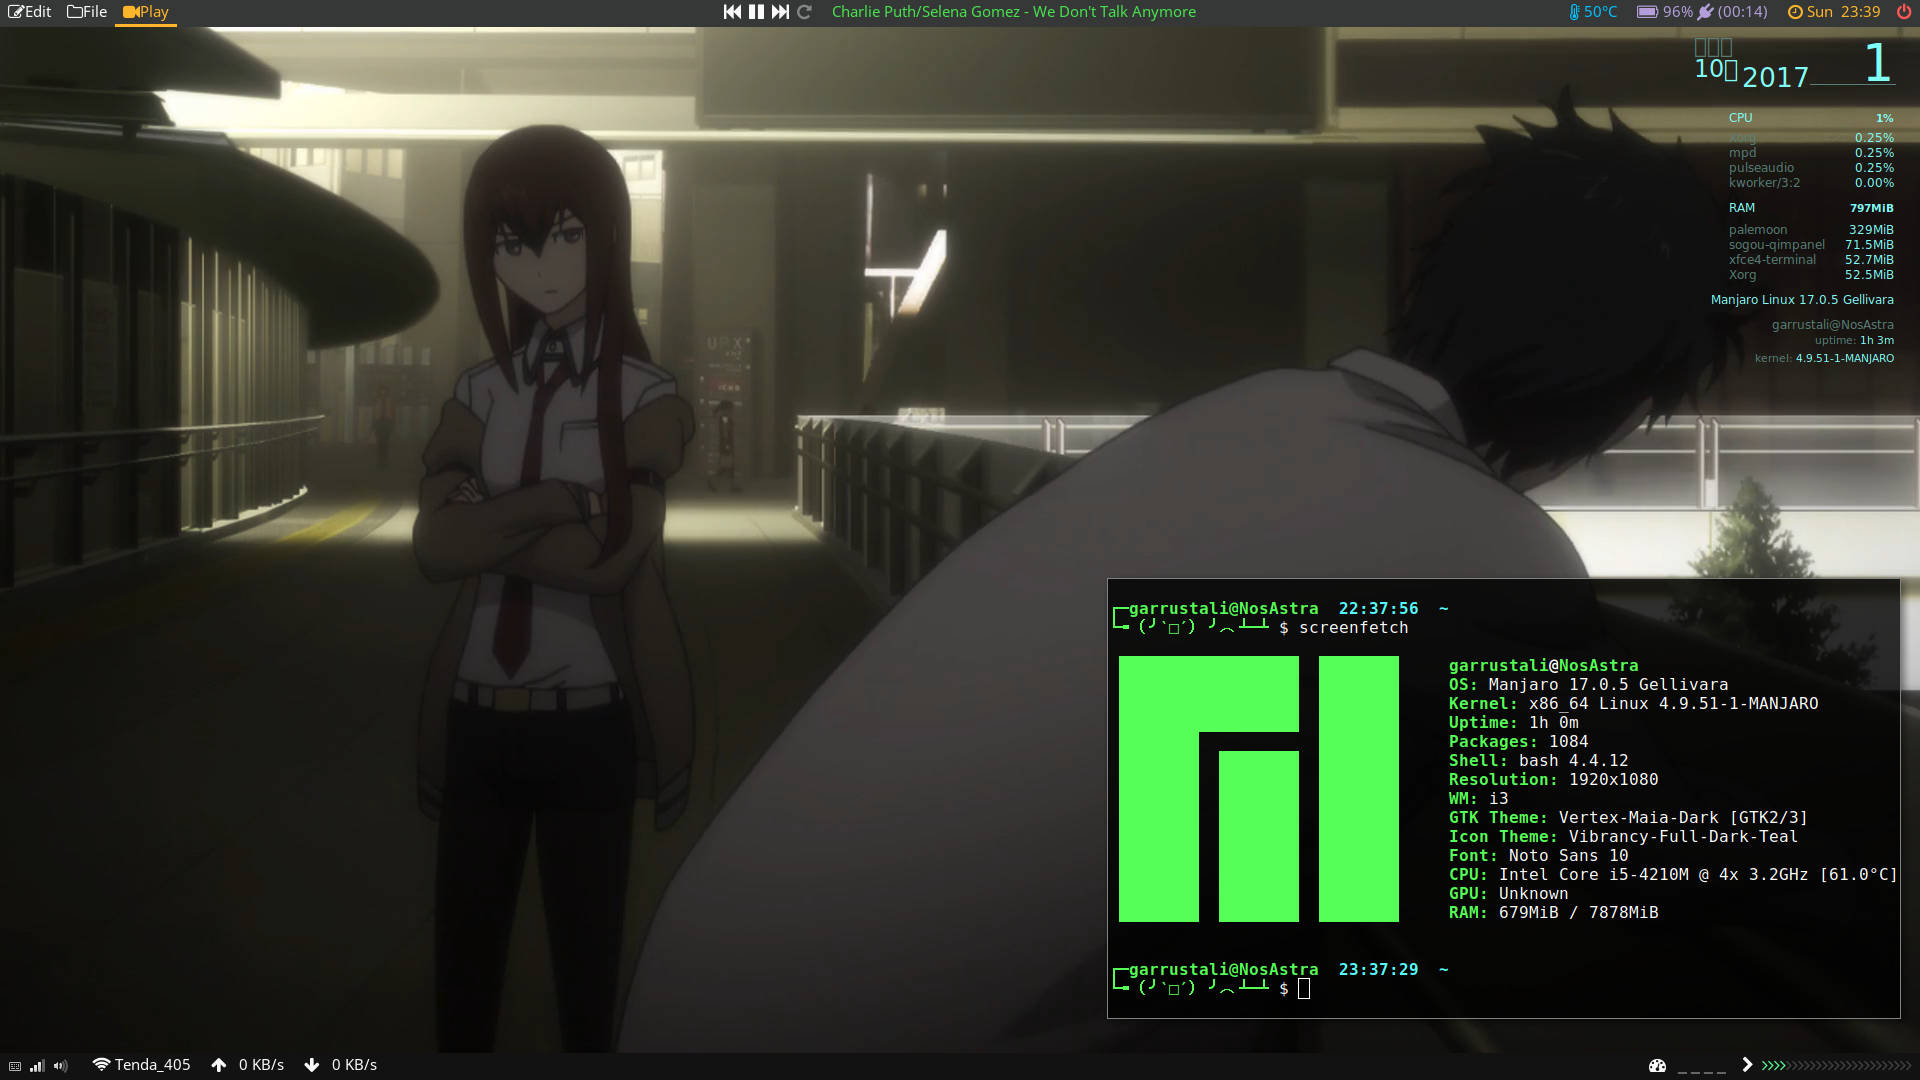
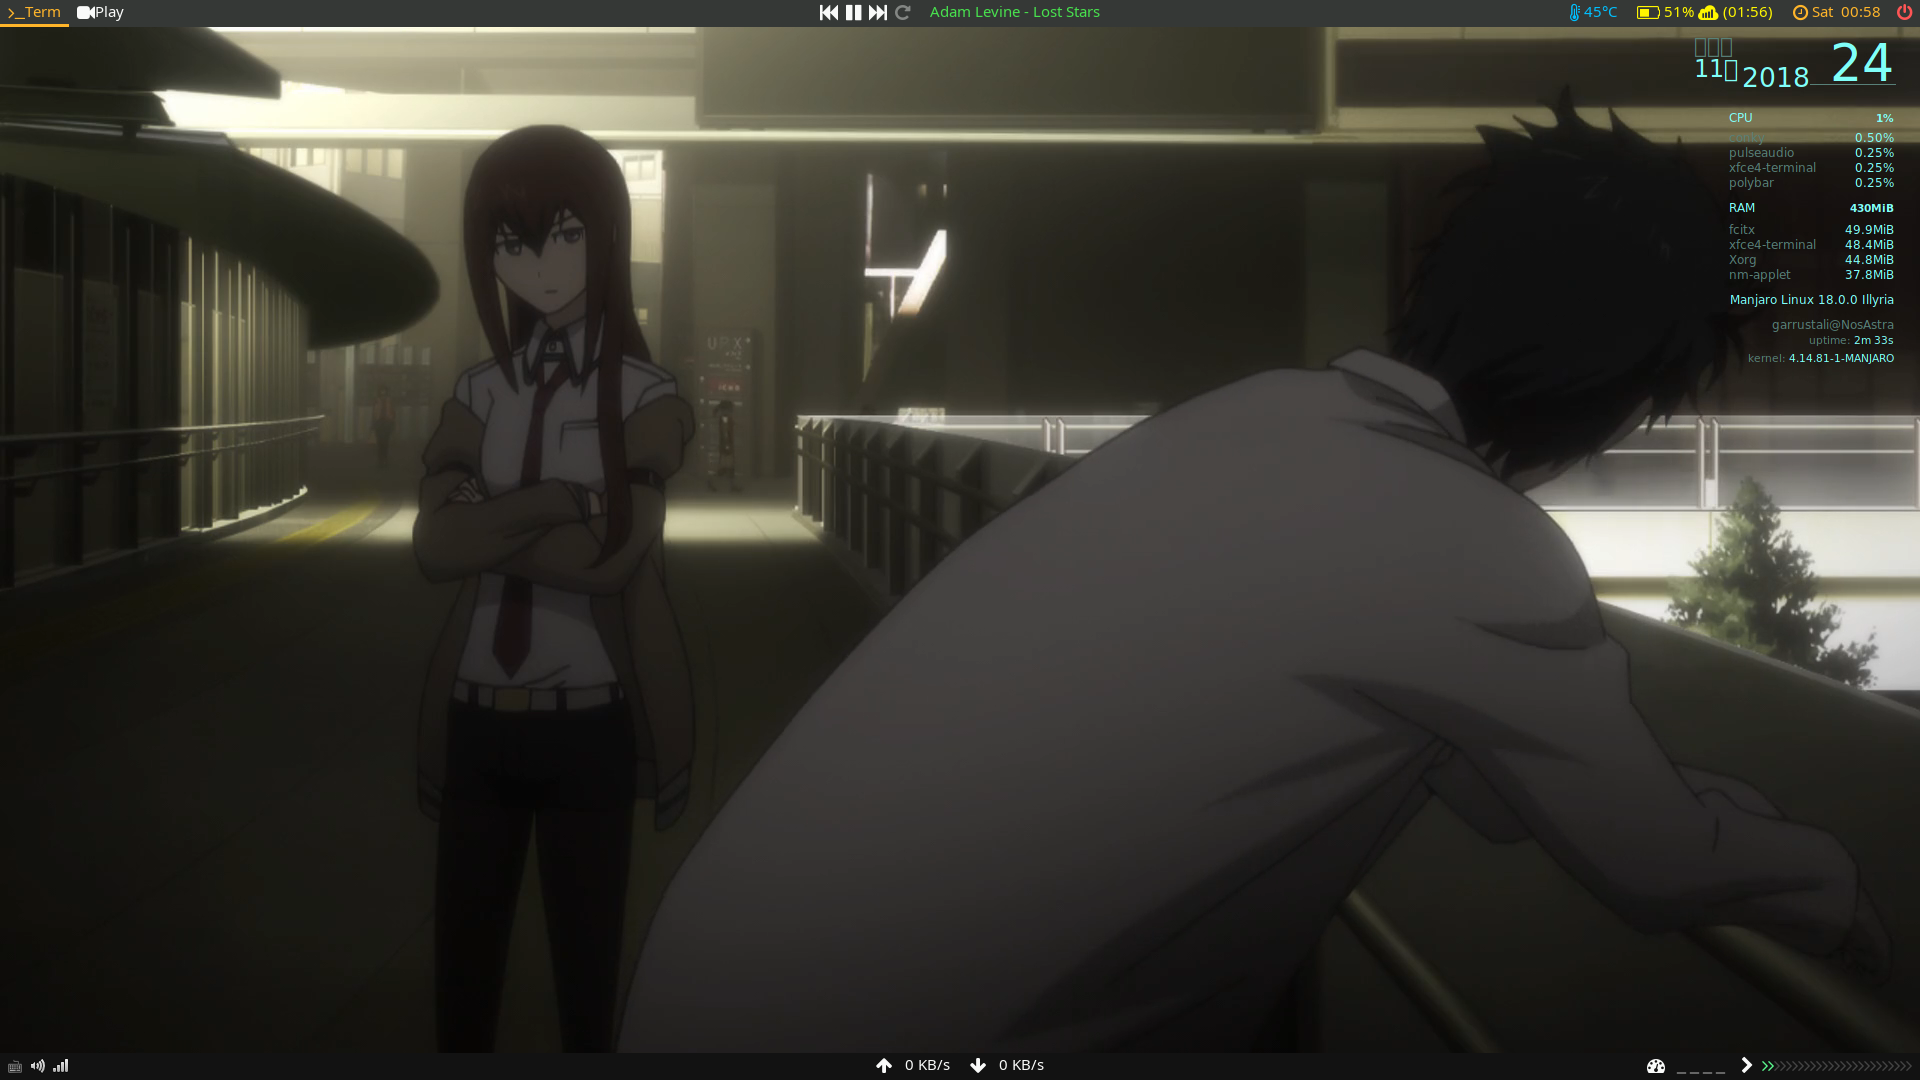
i3config change in pulseaudio&mpd / polybar refinement / readme update

diff --git a/README.md b/README.md
@@ -9,7 +9,7 @@ Writing my own i3 config is just like playing another Minecraft! (´・ω・`)
 ### -- core --
 * shell: bash with bash-completion
 * terminal: xfce4-terminal
-* bar: polybar
+* bar: polybar (noto-font and microsoft-font needed)
 * monitor: conky
 * transparent: compton
 * for-eye: redshift
@@ -25,12 +25,12 @@ for more, turn to startup application
 * file manager: ranger(w3m for preview image, atool for preview archives)
 * editor: neovim
 * media: ncmpcpp(mpc, mpd needed)
+  the problem between mpd and pulseaudio: https://wiki.archlinux.org/index.php/Music_Player_Daemon/Tips_and_tricks#PulseAudio
 * app-launcher: rofi
 * common: the_silver_searcher
 
 ### -- GUI apps --
 * file manager: thunar
-* editor: spacemacs
 * browser: palemoon
 * media: smplayer
 * pdfreader: zathura
